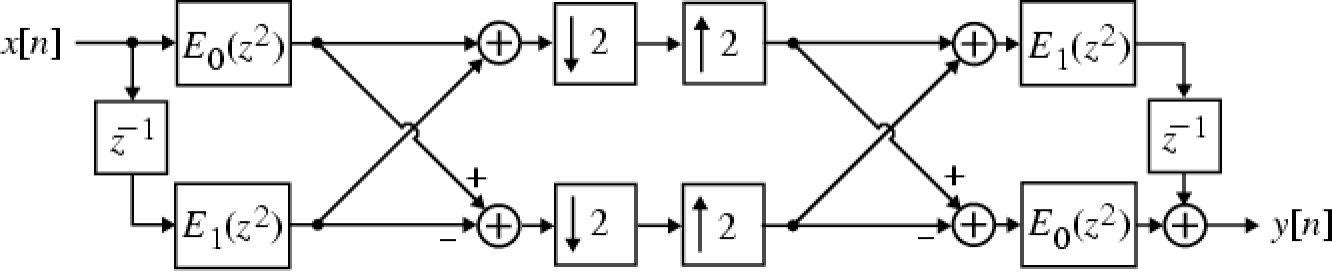
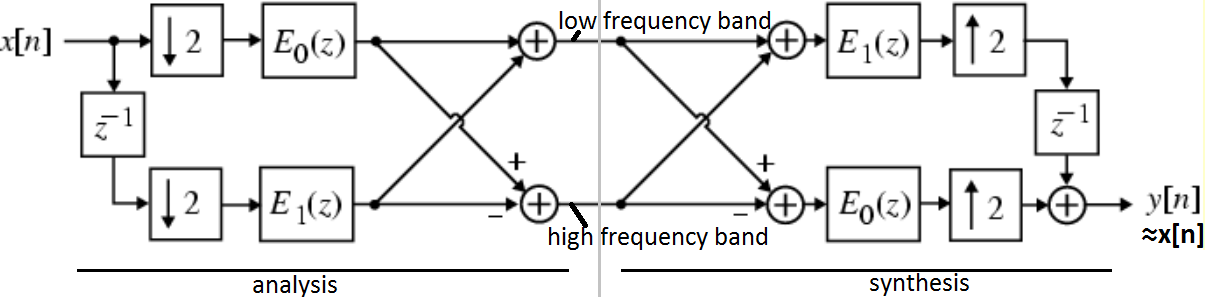
QMF picture updated + changes to introduction

Changed region(s): [[0.0, 0.0, 1.0, 1.0]]

diff --git a/IntermediateReport/IntermediateReport.tex b/IntermediateReport/IntermediateReport.tex
@@ -1,6 +1,8 @@
 \documentclass[a4paper]{article}
 \usepackage{amssymb}
 \usepackage{graphicx}
+\usepackage{hyperref}
+\usepackage{microtype}
 
 \title{H09M0A P\&D Embedded Systems and Multimedia}
 \author{Seppe Iven - r0370830 \\ Koen Goetschalckx - r0375967}
@@ -10,10 +12,9 @@
 \end{center}
 
 \section{Introduction}
-This is an intermediate report about the matlab implementation of the P\&D assignment on subband coding, where a codec is implemented. The main techniques used to create such codec are subband filtering and adaptive quantisation, with the goal of compressing a stereo audio signal. This matlab implementation uses fixed point numbers and its parameters can be set in a flexible manner with the eye to optimal speech quality. \
+This is an intermediate report about the MATLAB implementation of the P\&D assignment on subband coding, about the implementation of a codec. The main techniques used to create the codec are subband filtering and adaptive quantisation, with the goal of compressing a stereo audio signal. The MATLAB implementation uses fixed point numbers to mimic the working of a DSP. The parameters can be set in a flexible manner with the eye to optimal speech quality. \
 
-TODO edit this paragraph to include all sections of the report:
-This report contains a section on the main findings, an explanation about QMF filterbanks and the general matlab structure of the implementation of the assignment. It then explains the criteria for the optimal values of the parameters, followed by those values. Those values lead to a SNR and PESQ score for audio that has been encoded and decoded with this implementation.
+This report first mentions the required specifications followed by explanations about QMF filterbanks and adaptive differential quanisation. Next, this paper shows the general MATLAB structure of the implementation of the assignment. It then explains the criteria for the optimal values of the parameters, followed by some general conclusions on the behaviour of those values. After this, a set of optimal values is given. Those values lead to a PESQ score for audio that has been encoded and decoded with this implementation.
 
 \section{Main design specifications}
 The following list contains the specifications that the design of the codec has to meet.
@@ -29,8 +30,6 @@ The following list contains the specifications that the design of the codec has 
 
 \end{itemize}
 
-\section{Main findings}
-Don' really know what to put here but the assignment said we need this section. Maybe this is an introduction/conclusion section?
 
 \section{QMF and shizzle}
 A Quadrature Mirror Filter, or QMF, is a special kind of filter that can be used to efficiently create a 2-way filter bank. Recursively applying QMFs can split the signal into more subbands if wanted. QMF filters have some special properties:
@@ -48,9 +47,7 @@ Given these properties and constraints, a simple polyphase implementation for a 
 \label{fig:qmf}
 \end{figure}
 
-TODO: show figure
-
-TODO: bron vermelden? http://www.hindawi.com/journals/isrn/2013/815619/
+TODO: bron vermelden? 
 Type something about how QMF works (so it can be skipped in get\_subbands.m). Talk about how many bits per subband, how this equals 24k bit/s etc..
 TODO figures e.g. input and output signals of QMF system
 TODO zeggen dat onderste subbanden belangrijker blijken uit testen -> meer bits aan toekennen
@@ -89,8 +86,10 @@ The dequantizer can reconstruct s'(n) based on the z(n) it receives. It is thus 
 \label{fig:dequantization}
 \end{figure}
 
-\section{Matlab structure - Implementation overview}
-This paper will now give a brief explanation of the matlab files that are used and their functionality.
+
+
+\section{MATLAB structure - Implementation overview}
+This paper will now give a brief explanation of the MATLAB files that are used and their functionality.
 
 TODO: Talk about all the scalings to make the numbers fit integers as much as possible etc
 
@@ -103,7 +102,7 @@ This is the main script that is used to divide an audio file into subbands, enco
 The input is scaled to a 16 bit integer. The input is then split into subbands by calling analysis.m. These subbands are first encoded by calling encoded.m and then decoded by calling decode.m. Finally, the subbands are combined by calling synthesis.m and the PESQ score for the reconstructed audio file is calculated.
 
 \subsection{analysis.m}
-This matlab script mainly splits the stereo (or pairwise mono) channels into separate channels, and feeds splits them into subbands by calling get\_subbands.m.
+This MATLAB script mainly splits the stereo (or pairwise mono) channels into separate channels, and feeds splits them into subbands by calling get\_subbands.m.
 
 \subsection{get\_subbands.m}
 This script recursively splits an audio channel into its subbands. It does this by applying polyphase QMF filters, as has been explained earlier in this paper TODO Is this true?. These filters are generated with a script that is given with the assignment and defined by its parameters.
@@ -125,18 +124,25 @@ From p127, we got the values for phi TODO we assumed gaussian distribution
 Optimal values also includes: filter lengths etc just put here as many parameters as possible i guess
 From the book: mu is fixed per fequency band. Estimate it such that the energy of the prediction error s(n) - mu*s(n-1) is minimized
 
-\section{Optimal values of all controllable parameters}
+\section{General findings on the behaviour of PESQ}
+Don' really know what to put here but the assignment said we need this section. Maybe this is an introduction/conclusion section?
+
+\section{Set of optimal values of controllable parameters}
 TODO hier onze finale waarden ingeven en zeggen hoe we eraan komen (zie boek: sommige vanuit theorie, sommigen bruteforce)
-TODO also zeggen dat we optimised hebben voor de combined shizzle omdat die ons beter lijkt dan voor één aparte; dan zeggen wat de optimale en de minst optimale pesq waarden zijn bij de verschillende .wav bestandjes
+TODO also zeggen dat we optimised hebben voor de combined shizzle omdat die ons beter lijkt dan voor één aparte; dan zeggen wat de optimale en de minst optimale PESQ waarden zijn bij de verschillende .wav bestandjes
 TODO zeggen dat deze waarden subject to change zijn en mogelijk niet onze finale waarden
 
 \section{Final SNR \& PESQ}
-TODO zeggen dat we SNR niet hebben gebruikt en daar een reden voor verzinnen bv pesq is beter
+TODO zeggen dat we SNR niet hebben gebruikt en daar een reden voor verzinnen bv PESQ is beter
 
 \section{Conclusion}
 TODO spekken (zie taalgebruik van bossie) over alle secties die we behandeld hebben in deze paper
-TODO zeggen dat we een goede maar niet finale matlab implementatie hebben (bv de deling die we nog aangepast hebben om op C te lijken; alsook dat onze final parameters nog niet final zijn maar subject to optimization)
+TODO zeggen dat we een goede maar niet finale MATLAB implementatie hebben (bv de deling die we nog aangepast hebben om op C te lijken; alsook dat onze final parameters nog niet final zijn maar subject to optimization)
 
+\section{References}
+\begin{itemize}
+\item S. K. Agrawal and O. P. Sahu, Two-Channel Quadrature Mirror Filter Bank: An Overview, 23/03/2016, \url{http://www.hindawi.com/journals/isrn/2013/815619/}
+\end{itemize}
 \end{document}
 
 TODO scan for codex instead of codec
